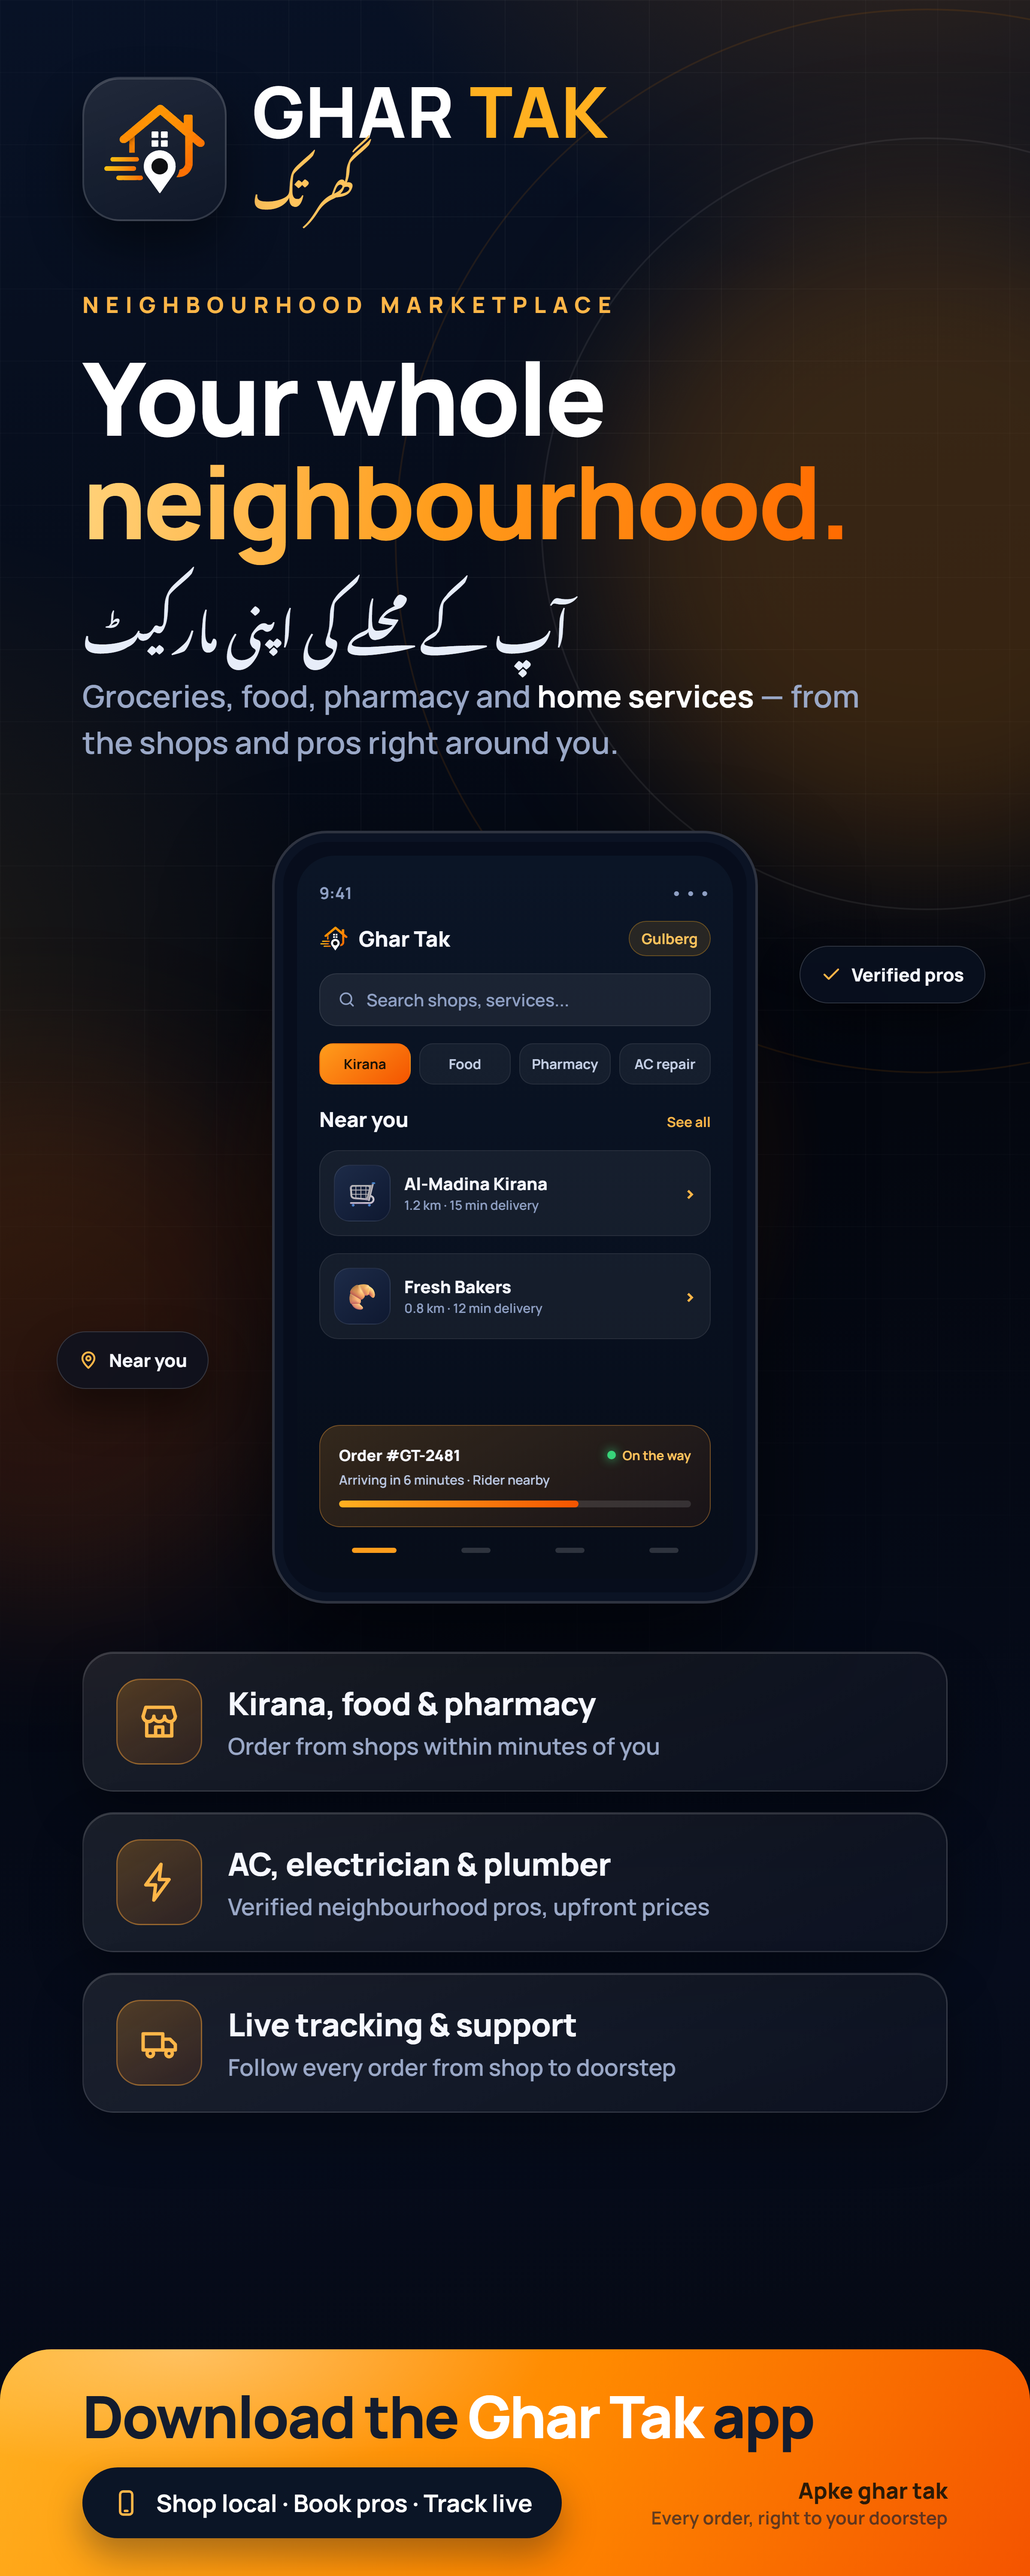
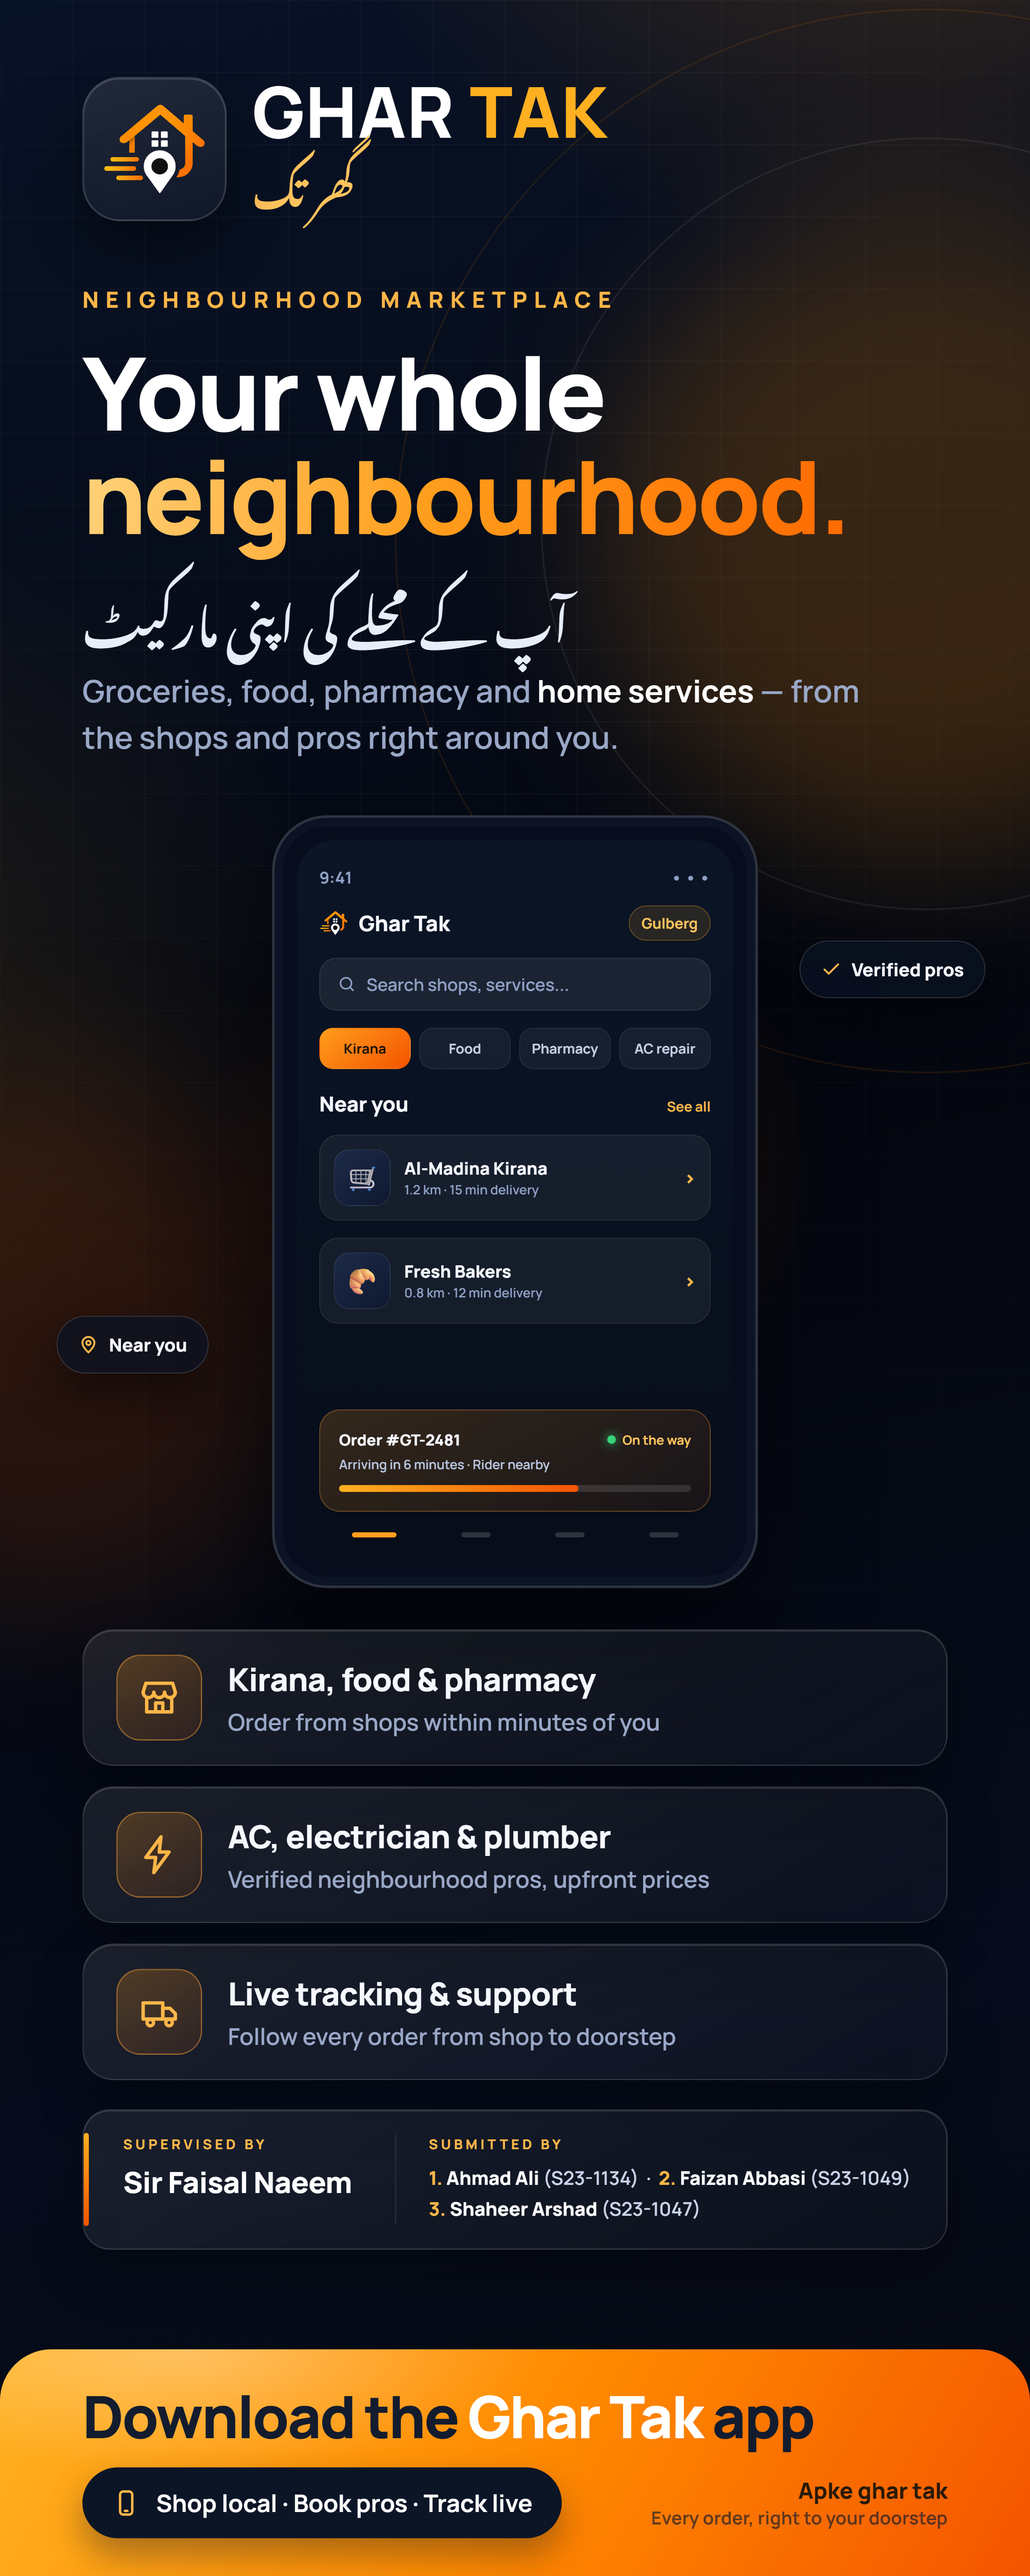
Add project credits to 2x5 panaflex
Supervisor and student names/S-IDs now sit in a credits panel above the CTA
band on both the 100dpi preview and 150dpi print renders.

diff --git a/marketing/panaflex-2x5/panaflex-2x5.html b/marketing/panaflex-2x5/panaflex-2x5.html
@@ -81,7 +81,7 @@
   }
 
   /* hero */
-  .hero { position: relative; z-index: 2; padding: 78px 96px 0 96px; }
+  .hero { position: relative; z-index: 2; padding: 72px 96px 0 96px; }
 
   .kicker {
     display: inline-block; font-size: 26px; font-weight: 800; letter-spacing: 8px;
@@ -109,7 +109,7 @@
   .device-wrap {
     position: relative; z-index: 2;
     display: flex; justify-content: center;
-    padding-top: 76px;
+    padding-top: 64px;
   }
 
   .phone-glow {
@@ -203,12 +203,12 @@
   .cards {
     position: relative; z-index: 2;
     display: flex; flex-direction: column; gap: 24px;
-    padding: 56px 96px 0 96px;
+    padding: 48px 96px 0 96px;
   }
 
   .card {
     display: flex; align-items: center; gap: 30px;
-    padding: 30px 38px; border-radius: 36px;
+    padding: 28px 38px; border-radius: 36px;
     background: linear-gradient(150deg, rgba(255,255,255,0.085), rgba(255,255,255,0.028));
     border: 1.5px solid rgba(255,255,255,0.12);
     box-shadow: 0 26px 60px rgba(0,0,0,0.32), inset 0 1px 0 rgba(255,255,255,0.16);
@@ -225,6 +225,34 @@
 
   .card h3 { font-size: 37px; font-weight: 800; letter-spacing: -0.5px; }
   .card p { margin-top: 6px; font-size: 27px; font-weight: 600; color: var(--muted); }
+
+  /* credits */
+  .credits {
+    position: relative; z-index: 2;
+    display: flex; align-items: stretch; gap: 38px;
+    margin: 34px 96px 0 96px; padding: 28px 40px 28px 46px;
+    border-radius: 32px;
+    background: linear-gradient(150deg, rgba(255,255,255,0.08), rgba(255,255,255,0.025));
+    border: 1.5px solid rgba(255,255,255,0.12);
+    box-shadow: 0 24px 60px rgba(0,0,0,0.3), inset 0 1px 0 rgba(255,255,255,0.14);
+    backdrop-filter: blur(20px);
+  }
+  .credits::before {
+    content: ""; position: absolute; left: 0; top: 26px; bottom: 26px; width: 6px;
+    border-radius: 999px; background: linear-gradient(180deg, #ffb020, #f45400);
+  }
+
+  .cred-sup { flex: 0 0 318px; padding-right: 38px; border-right: 1px solid rgba(255,255,255,0.12); }
+  .cred-label {
+    font-size: 16px; font-weight: 800; letter-spacing: 3.5px; text-transform: uppercase;
+    color: #ffb648;
+  }
+  .cred-sup .name { margin-top: 10px; font-size: 34px; font-weight: 800; letter-spacing: -0.4px; color: #fff; }
+
+  .cred-sub { flex: 1; }
+  .students { margin-top: 10px; font-size: 22px; font-weight: 600; line-height: 1.65; color: #c9d4ea; }
+  .students b { color: #fff; font-weight: 800; }
+  .students .num { color: #ffb648; font-weight: 800; }
 
   /* CTA */
   .cta {
@@ -375,6 +403,21 @@
       <div>
         <h3>Live tracking &amp; support</h3>
         <p>Follow every order from shop to doorstep</p>
+      </div>
+    </div>
+  </section>
+
+  <section class="credits">
+    <div class="cred-sup">
+      <div class="cred-label">Supervised by</div>
+      <div class="name">Sir Faisal Naeem</div>
+    </div>
+    <div class="cred-sub">
+      <div class="cred-label">Submitted by</div>
+      <div class="students">
+        <span class="num">1.</span> <b>Ahmad Ali</b> (S23-1134) &nbsp;·&nbsp;
+        <span class="num">2.</span> <b>Faizan Abbasi</b> (S23-1049)<br />
+        <span class="num">3.</span> <b>Shaheer Arshad</b> (S23-1047)
       </div>
     </div>
   </section>
